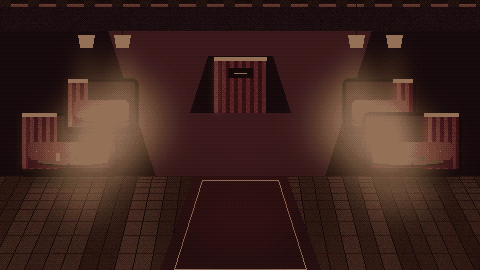
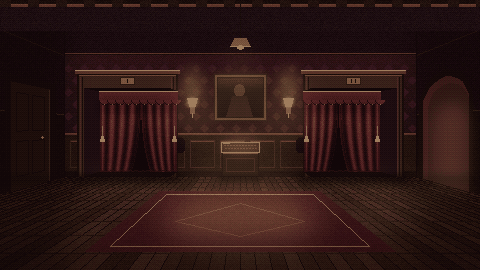
Club hall: redraw with two recessed curtained privees
Replace the four booths floating on the walls with a proper one-point
perspective hall: two privees set into the back wall, velvet curtains
drawn over dark interiors, plus the street door and lounge archway on the
side walls. Hotspots and walk area realigned; centre booth removed.

Copilot-Session: 177c9009-6028-40ab-a0dd-2c48d4b13977

diff --git a/tools/art/club.py b/tools/art/club.py
@@ -1,6 +1,8 @@
-"""A secretive private club: velvet booths, lounge, and a shadowy stage room."""
+"""A secretive private club: curtained privees, lounge, and a shadowy stage room."""
+import math
+import random
 from PIL import Image, ImageDraw
-from .common import (W, H, TOP, FULL_H, tall, hx, mix, mul, vgrad, noise, light, shadow, vignette, pixelize,
+from .common import (W, H, TOP, FULL_H, tall, hx, mix, mul, clamp, vgrad, noise, light, shadow, vignette, pixelize,
                      palette_of, save, floor_boards)
 
 FLOOR = 146
@@ -79,33 +81,6 @@ def lamp(full_img, x, top_y, pool_box, cone_box=None):
     light(full_img, "ellipse", pool_box, LAMPLIGHT, 0.38, 16)
 
 
-def booth(img, box, side, curtain_frac=0.35, seed=0):
-    d = ImageDraw.Draw(img)
-    x0, y0, x1, y1 = box
-    d.rounded_rectangle([x0, y0, x1, y1], 7, fill=hx("110708"), outline=WOOD_DEEP)
-    vgrad(img, (x0 + 4, y0 + 4, x1 - 4, y1 - 8), hx("271017"), hx("14080b"))
-    drw = int((x1 - x0) * curtain_frac)
-    if side == "left":
-        drape(img, (x0 + 4, y0 + 4, x0 + drw, y1 - 8), seed + 1)
-    else:
-        drape(img, (x1 - drw, y0 + 4, x1 - 4, y1 - 8), seed + 1)
-    seat_y = y1 - 20
-    d.rectangle([x0 + 10, seat_y, x1 - 10, y1 - 9], fill=VELVET_DARK)
-    d.rounded_rectangle([x0 + 10, seat_y - 14, x1 - 10, seat_y + 3], 5, fill=VELVET)
-    for px in range(x0 + 18, x1 - 12, 12):
-        d.point((px, seat_y - 5), fill=BRASS)
-    t0 = x0 + 18 if side == "left" else x0 + 10
-    t1 = x1 - 10 if side == "left" else x1 - 18
-    d.ellipse([t0, y1 - 18, t1, y1 - 10], fill=WOOD_DEEP)
-    d.ellipse([t0 + 1, y1 - 18, t1 - 1, y1 - 12], fill=mul(WOOD, 0.9))
-    cx = (x0 + x1) // 2
-    d.line([(cx, y1 - 13), (cx, y1 - 3)], fill=WOOD_DEEP)
-    d.line([(cx - 5, y1 - 3), (cx + 5, y1 - 3)], fill=WOOD_DEEP)
-    d.rectangle([cx - 12, y1 - 23, cx - 9, y1 - 16], fill=hx("9aa0a6"))
-    d.ellipse([cx + 5, y1 - 20, cx + 13, y1 - 16], fill=hx("322a2a"))
-    shadow(img, "ellipse", [x0 + 5, y1 - 1, x1 - 5, y1 + 9], 0.5, 4)
-
-
 def sofa(img, box, seed):
     d = ImageDraw.Draw(img)
     x0, y0, x1, y1 = box
@@ -134,32 +109,246 @@ def low_table(img, box, seed, glasses=2):
     noise(img, (x0, y0, x1, y1), 2, seed)
 
 
+HALL_VP = (240, 96)  # eye level of a standing figure at the back of the hall
+HALL_BACK = (64, 416)  # back wall span; the side walls recede from its edges
+
+
+def hp(u, h, s):
+    """Hall perspective: u = offset from centre, h = height above floor (back-wall px), s = nearness."""
+    return (HALL_VP[0] + u * s, HALL_VP[1] + (FLOOR - HALL_VP[1] - h) * s)
+
+
+def side_quad(side, s0, s1, h0, h1):
+    u = (HALL_BACK[1] - HALL_VP[0]) * (1 if side == "right" else -1)
+    return [hp(u, h0, s0), hp(u, h1, s0), hp(u, h1, s1), hp(u, h0, s1)]
+
+
+def hall_walls(img):
+    d = ImageDraw.Draw(img)
+    bx0, bx1 = HALL_BACK
+    vgrad(img, (bx0, 0, bx1, FLOOR), hx("2e1219"), hx("1e0b10"))
+    for y in range(34, 100, 12):
+        for x in range(bx0 + (y // 12) % 2 * 8, bx1, 16):
+            d.polygon([(x, y + 4), (x + 4, y), (x + 8, y + 4), (x + 4, y + 8)], fill=hx("341620"))
+    d.rectangle([bx0, 0, bx1, 22], fill=hx("1a0a0e"))
+    d.line([(bx0, 23), (bx1, 23)], fill=WOOD)
+    d.line([(bx0, 24), (bx1, 24)], fill=WOOD_DEEP)
+    d.rectangle([bx0, 104, bx1, FLOOR], fill=WOOD_DARK)
+    d.line([(bx0, 103), (bx1, 103)], fill=mul(WOOD, 1.15))
+    d.line([(bx0, 104), (bx1, 104)], fill=WOOD)
+    for x in range(bx0 + 6, bx1 - 20, 30):
+        d.rectangle([x, 110, x + 24, FLOOR - 9], outline=hx("3a2216"))
+        d.line([(x + 1, 111), (x + 23, 111)], fill=mul(WOOD, 1.05))
+    d.rectangle([bx0, FLOOR - 5, bx1, FLOOR], fill=WOOD_DEEP)
+    for side in ("left", "right"):
+        s_edge = (HALL_VP[0] - 0) / (HALL_VP[0] - bx0) + 0.05
+        d.polygon(side_quad(side, 1.0, s_edge, 0, 240), fill=hx("1a090d"))
+        d.polygon(side_quad(side, 1.0, s_edge, 0, 62), fill=hx("160b07"))
+        d.line(side_quad(side, 1.0, s_edge, 62, 62)[1:3], fill=hx("3a2014"))
+        d.line(side_quad(side, 1.0, s_edge, 121, 121)[1:3], fill=hx("2a160e"))
+        d.polygon(side_quad(side, 1.0, s_edge, 0, 5), fill=WOOD_DEEP)
+        d.line([hp(-176 if side == "left" else 176, 0, 1.0), hp(-176 if side == "left" else 176, 260, 1.0)],
+               fill=hx("0e0507"))
+    noise(img, (0, 0, W - 1, FLOOR + 20), 3, 141)
+
+
+def street_door(img):
+    d = ImageDraw.Draw(img)
+    d.polygon(side_quad("left", 1.05, 1.33, 0, 90), fill=WOOD_DEEP)
+    d.polygon(side_quad("left", 1.08, 1.30, 0, 84), fill=hx("2a160d"))
+    for h0, h1 in ((10, 38), (46, 76)):
+        d.polygon(side_quad("left", 1.11, 1.18, h0, h1), outline=hx("1a0c07"))
+        d.polygon(side_quad("left", 1.20, 1.27, h0, h1), outline=hx("1a0c07"))
+    kx, ky = hp(-176, 40, 1.12)
+    d.ellipse([kx - 1, ky - 1, kx + 1, ky + 1], fill=BRASS)
+    lx, ly = hp(-176, 84, 1.08)
+    d.line([(lx, ly + 1), hp(-176, 0, 1.08)], fill=hx("4a2a18"))
+
+
+def lounge_arch(img):
+    d = ImageDraw.Draw(img)
+
+    def arch(s0, s1, h_spring, h_top):
+        sm, rs = (s0 + s1) / 2, (s1 - s0) / 2
+        pts = [hp(176, 0, s0), hp(176, h_spring, s0)]
+        for i in range(1, 12):
+            a = math.pi * i / 12
+            pts.append(hp(176, h_spring + (h_top - h_spring) * math.sin(a), sm - rs * math.cos(a)))
+        return pts + [hp(176, h_spring, s1), hp(176, 0, s1)]
+
+    d.polygon(arch(1.02, 1.32, 70, 98), fill=WOOD_DEEP)
+    d.polygon(arch(1.04, 1.30, 68, 92), fill=hx("4a2416"))
+    d.polygon(arch(1.07, 1.30, 66, 86), fill=hx("3e1e12"))
+    light(img, "polygon", arch(1.10, 1.30, 50, 70), hx("c07838"), 0.3, 8)
+    light(img, "polygon", [hp(176, 0, 1.06), hp(176, 0, 1.30), (330, 220), (350, 172)], LAMPLIGHT, 0.1, 14)
+
+
+def curtain_panel(px, y0, y1, x_at, folds, phase, seed):
+    """Paints one velvet panel between x_at(y) -> (left, right) edges, with folds following its shape."""
+    rnd = random.Random(seed)
+    hi, lo, deep = hx("8c2230"), hx("4a0c14"), hx("16030a")
+    for y in range(y0, y1 + 1):
+        t = (y - y0) / max(1, y1 - y0)
+        xl, xr = x_at(y)
+        if xr - xl < 1:
+            continue
+        for x in range(int(xl), int(xr) + 1):
+            u = (x - xl) / max(1.0, xr - xl)
+            f = 0.5 + 0.5 * math.sin(2 * math.pi * u * folds + phase)
+            col = mix(deep, mix(lo, hi, f), 0.35 + 0.65 * f)
+            col = mul(col, 1.12 - 0.5 * t)
+            if x - xl < 1.5 or xr - x < 1.5:
+                col = mul(col, 0.55)
+            n = rnd.randint(-3, 3)
+            px[x, y] = (clamp(col[0] + n), clamp(col[1] + n), clamp(col[2] + n))
+
+
+def privee(img, x0, x1, y0, numeral, seed):
+    """A recessed private room in the back wall, its velvet curtains drawn on darkness."""
+    d = ImageDraw.Draw(img)
+    y1 = FLOOR
+    vx, vy = HALL_VP
+    left_of_centre = (x0 + x1) / 2 < vx
+
+    def inner(x, y, k):
+        return (vx + (x - vx) * k, vy + (y - vy) * k)
+
+    d.rectangle([x0 - 7, y0 - 15, x1 + 7, y1], fill=WOOD_DEEP)
+    d.rectangle([x0 - 5, y0 - 13, x1 + 5, y1], fill=hx("3a2014"))
+    d.line([(x0 - 5, y0 - 13), (x1 + 5, y0 - 13)], fill=mul(WOOD, 1.3))
+    d.rectangle([x0 - 9, y0 - 18, x1 + 9, y0 - 15], fill=WOOD)
+    d.line([(x0 - 9, y0 - 18), (x1 + 9, y0 - 18)], fill=BRASS)
+    for x in (x0 - 4, x1 + 1):
+        d.line([(x, y0 - 11), (x, y1 - 1)], fill=hx("4c2a18"))
+        d.line([(x + 2, y0 - 11), (x + 2, y1 - 1)], fill=WOOD_DEEP)
+    cx = (x0 + x1) // 2
+    d.rectangle([cx - 7, y0 - 11, cx + 7, y0 - 4], fill=hx("7a5a2a"), outline=hx("2a1a0c"))
+    for i in range(numeral):
+        nx = cx - (numeral - 1) * 2 + i * 4
+        d.line([(nx, y0 - 9), (nx, y0 - 6)], fill=hx("1a0e06"))
+
+    d.rectangle([x0, y0, x1, y1], fill=hx("050203"))
+    k = 0.9
+    ix0, iy0 = inner(x0, y0, k)
+    ix1, iy1 = inner(x1, y1, k)
+    d.polygon([(x0, y0), (x1, y0), (ix1, iy0), (ix0, iy0)], fill=hx("0c0507"))
+    d.polygon([(x0, y1), (x1, y1), (ix1, iy1), (ix0, iy1)], fill=hx("120609"))
+    if left_of_centre:
+        d.polygon([(x0, y0), (ix0, iy0), (ix0, iy1), (x0, y1)], fill=hx("1e0b10"))
+    else:
+        d.polygon([(x1, y0), (ix1, iy0), (ix1, iy1), (x1, y1)], fill=hx("1e0b10"))
+
+    bx0, by0 = inner(x0 + 8, 112, 0.72)
+    bx1, by1 = inner(x1 - 8, 132, 0.72)
+    d.rounded_rectangle([bx0, by0, bx1, by1], 3, fill=hx("12060a"))
+    d.line([(bx0 + 2, by0), (bx1 - 2, by0)], fill=hx("1c0a0e"))
+    gx, gy = inner(cx + (5 if left_of_centre else -5), 128, 0.76)
+    d.point((gx, gy), fill=hx("3a2a26"))
+
+    cx0, cy0 = (int(ix0) + 1, int(iy0) + 9)
+    cx1, cy1 = (int(ix1) - 1, int(iy1))
+    gap_c = (cx0 + cx1) / 2 + (3 if left_of_centre else -3)
+    h = cy1 - cy0
+
+    def gap(y):
+        t = (y - cy0) / max(1, h)
+        return 0.6 + 9 * t ** 2.4
+
+    px = img.load()
+    curtain_panel(px, cy0, cy1, lambda y: (cx0, gap_c - gap(y)), 4, 0.6, seed)
+    curtain_panel(px, cy0, cy1, lambda y: (gap_c + gap(y), cx1), 4, 2.2, seed + 1)
+
+    rnd = random.Random(seed + 2)
+    for x in range(cx0, cx1 + 1, 2):
+        dy = rnd.randint(0, 1)
+        d.line([(x, cy1 - 1 + dy), (x + 1, cy1 - 1 + dy)], fill=hx("2a060c"))
+    d.rectangle([cx0 - 1, cy0 - 9, cx1 + 1, cy0 - 1], fill=hx("5a1018"))
+    for x in range(cx0, cx1, 8):
+        d.chord([x - 1, cy0 - 5, x + 9, cy0 + 4], 0, 180, fill=hx("6e1620"))
+        d.arc([x - 1, cy0 - 5, x + 9, cy0 + 4], 0, 180, fill=hx("2a060c"))
+        d.point((x + 4, cy0 + 4), fill=BRASS)
+    d.line([(cx0 - 1, cy0 - 9), (cx1 + 1, cy0 - 9)], fill=BRASS)
+    for tx in (cx0 + 2, cx1 - 2):
+        d.line([(tx, cy0 + 26), (tx, cy0 + 36)], fill=hx("8a6a30"))
+        d.polygon([(tx - 1, cy0 + 36), (tx + 1, cy0 + 36), (tx + 2, cy0 + 41), (tx - 2, cy0 + 41)], fill=BRASS)
+
+    shadow(img, "rect", [cx0, cy0, cx1, cy0 + 14], 0.4, 4)
+    shadow(img, "polygon", [(gap_c - 14, cy1), (gap_c + 14, cy1), (gap_c + 4, cy0 + h // 3), (gap_c - 4, cy0 + h // 3)],
+           0.35, 5)
+    shadow(img, "rect", [x0 - 10, y1 - 2, x1 + 10, y1 + 6], 0.55, 3)
+
+
+def sconce(img, x, y):
+    d = ImageDraw.Draw(img)
+    d.rectangle([x - 2, y + 2, x + 2, y + 9], fill=hx("6a4c22"))
+    d.line([(x, y + 9), (x, y + 13)], fill=BRASS)
+    d.polygon([(x - 5, y - 6), (x + 5, y - 6), (x + 3, y + 2), (x - 3, y + 2)], fill=hx("d8a860"))
+    d.line([(x - 5, y - 6), (x + 5, y - 6)], fill=hx("fff0c0"))
+    light(img, "ellipse", [x - 10, y - 36, x + 10, y - 2], LAMPLIGHT, 0.22, 6)
+    light(img, "ellipse", [x - 22, y - 18, x + 22, y + 34], LAMPLIGHT, 0.16, 12)
+    light(img, "ellipse", [x - 4, y - 6, x + 4, y + 1], hx("fff2c8"), 0.55, 2)
+
+
+def cigar_stand(img, x0, x1, y0):
+    d = ImageDraw.Draw(img)
+    d.rectangle([x0, y0 + 10, x1, FLOOR], fill=WOOD_DARK, outline=WOOD_DEEP)
+    d.line([(x0 + 1, y0 + 11), (x1 - 1, y0 + 11)], fill=mul(WOOD, 1.25))
+    d.rectangle([x0 + 4, y0 + 16, x1 - 4, FLOOR - 5], outline=hx("3a2216"))
+    d.rectangle([x0 - 1, y0, x1 + 1, y0 + 10], fill=hx("2a2224"), outline=BRASS)
+    for row, yy in enumerate((y0 + 3, y0 + 6)):
+        for x in range(x0 + 2 + row, x1 - 2, 3):
+            d.line([(x, yy), (x + 1, yy)], fill=hx("6a3a1e"))
+    d.line([(x0 + 1, y0 + 1), (x0 + 7, y0 + 1)], fill=hx("c8c0b8"))
+    shadow(img, "rect", [x0 - 3, FLOOR - 1, x1 + 3, FLOOR + 4], 0.5, 2)
+
+
+def painting(img, x0, y0, x1, y1):
+    d = ImageDraw.Draw(img)
+    d.rectangle([x0, y0, x1, y1], fill=hx("5a4220"), outline=hx("2a1a0a"))
+    d.rectangle([x0 + 3, y0 + 3, x1 - 3, y1 - 3], fill=hx("1c1410"))
+    vgrad(img, (x0 + 4, y0 + 4, x1 - 4, y1 - 4), hx("2a2018"), hx("120c0a"))
+    cx = (x0 + x1) // 2
+    d.ellipse([cx - 6, y0 + 10, cx + 4, y0 + 22], fill=hx("4a3428"))
+    d.polygon([(cx - 14, y1 - 4), (cx - 8, y0 + 22), (cx + 6, y0 + 22), (cx + 12, y1 - 4)], fill=hx("2c1c18"))
+    light(img, "rect", [x0, y0, x1, y0 + 10], LAMPLIGHT, 0.12, 4)
+
+
 def hall_scene():
     img = Image.new("RGB", (W, H))
-    room_shell(img, FLOOR, (240, -250), 101)
+    floor_boards(img, FLOOR, H - 1, HALL_VP, 16, hx("3e2216"), hx("2a150c"), hx("120705"), 111)
+    noise(img, (0, FLOOR, W - 1, H - 1), 4, 121)
+    hall_walls(img)
+    street_door(img)
+    lounge_arch(img)
+    privee(img, 84, 170, 58, 1, 131)
+    privee(img, 310, 396, 58, 2, 137)
+    painting(img, 214, 44, 266, 90)
+    cigar_stand(img, 222, 258, 112)
     d = ImageDraw.Draw(img)
-    d.polygon([(208, 26), (272, 26), (290, 82), (190, 82)], fill=hx("16090c"))
-    drape(img, (214, 30, 266, 82), 109)
-    d.rectangle([228, 38, 252, 47], fill=hx("10080a"))
-    d.line([(234, 43), (246, 43)], fill=BRASS)
-    booths = [
-        ((18, 82, 118, 146), "left", 86),
-        ((64, 48, 138, 104), "left", 122),
-        ((342, 48, 416, 104), "right", 356),
-        ((362, 82, 462, 146), "right", 394),
-    ]
-    for i, (box, side, _) in enumerate(booths):
-        booth(img, box, side, 0.38 if i in (0, 3) else 0.32, 120 + i * 7)
-    d.polygon([(194, 146), (286, 146), (320, H - 1), (160, H - 1)], fill=hx("2c1115"))
-    d.polygon([(202, 150), (278, 150), (306, H - 1), (174, H - 1)], outline=BRASS)
-    light(img, "ellipse", [180, 144, 300, 226], hx("7a1d24"), 0.16, 18)
-    shadow(img, "ellipse", [150, 148, 330, H - 1], 0.2, 10, hx("40181a"))
+    rug = [hp(-62, 0, 1.3), hp(62, 0, 1.3), hp(62, 0, 2.5), hp(-62, 0, 2.5)]
+    d.polygon(rug, fill=hx("3a0f16"))
+    d.polygon([hp(-54, 0, 1.36), hp(54, 0, 1.36), hp(54, 0, 2.4), hp(-54, 0, 2.4)], outline=hx("8a6a34"))
+    d.polygon([hp(0, 0, 1.55), hp(34, 0, 1.9), hp(0, 0, 2.2), hp(-34, 0, 1.9)], outline=hx("6a1a22"))
+    noise(img, (40, 158, 440, 224), 3, 151)
+    for x in (192, 288):
+        sconce(img, x, 74)
+    for x0, x1 in ((84, 170), (310, 396)):
+        light(img, "ellipse", [x0 - 8, FLOOR - 4, x1 + 8, FLOOR + 22], LAMPLIGHT, 0.08, 10)
+    shadow(img, "rect", [0, 0, HALL_BACK[0] + 2, H - 1], 0.35, 14, hx("12050a"))
+    shadow(img, "rect", [HALL_BACK[1] - 2, 0, W - 1, H - 1], 0.25, 14, hx("12050a"))
+    shadow(img, "rect", [0, FLOOR, W - 1, FLOOR + 6], 0.3, 4)
     full = tall(img, ceiling_band)
-    for box, _, lx in booths:
-        _, y0, _, y1 = box
-        lamp(full, lx, TOP + 14, [lx - 42, TOP + y0 - 2, lx + 42, TOP + y1 + 36], (lx - 22, TOP + y0, lx + 22, TOP + y1))
-    shadow(full, "rect", [0, TOP + 132, W - 1, FULL_H - 1], 0.16, 12, hx("502124"))
-    vignette(full, 0.72, tint=(38, 14, 18), blur=52)
+    fd = ImageDraw.Draw(full)
+    lx, ly = 240, TOP + 16
+    fd.line([(lx, 0), (lx, ly - 8)], fill=WOOD_DEEP)
+    fd.polygon([(lx - 10, ly), (lx + 10, ly), (lx + 6, ly - 8), (lx - 6, ly - 8)], fill=hx("7a5a26"))
+    fd.line([(lx - 10, ly), (lx + 10, ly)], fill=BRASS)
+    fd.ellipse([lx - 3, ly - 1, lx + 3, ly + 3], fill=LAMPLIGHT)
+    light(full, "polygon", [(lx - 4, ly), (lx + 4, ly), (lx + 70, TOP + 200), (lx - 70, TOP + 200)], LAMPLIGHT, 0.08, 12)
+    light(full, "ellipse", [lx - 80, TOP + 160, lx + 80, TOP + 222], LAMPLIGHT, 0.2, 16)
+    light(full, "ellipse", [222, TOP + 104, 258, TOP + 124], LAMPLIGHT, 0.18, 6)
+    vignette(full, 0.75, tint=(30, 10, 14), blur=50)
+    shadow(full, "rect", [0, FULL_H - 30, W - 1, FULL_H - 1], 0.3, 14, hx("300c10"))
     return full
 
 
